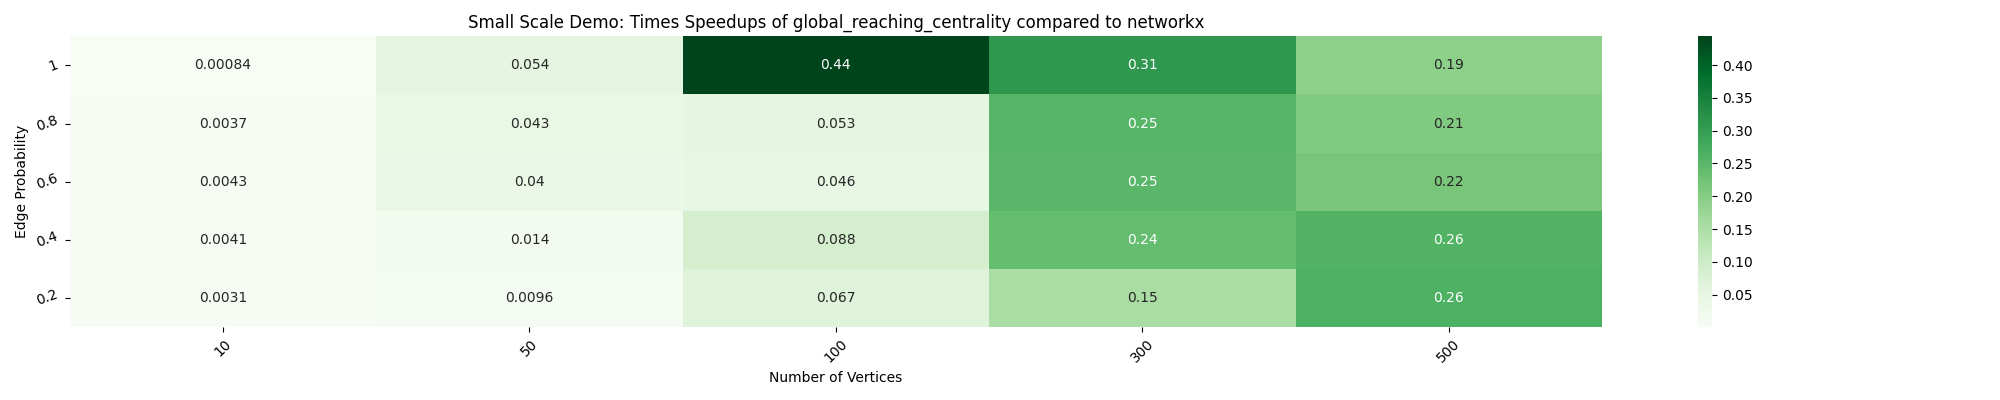
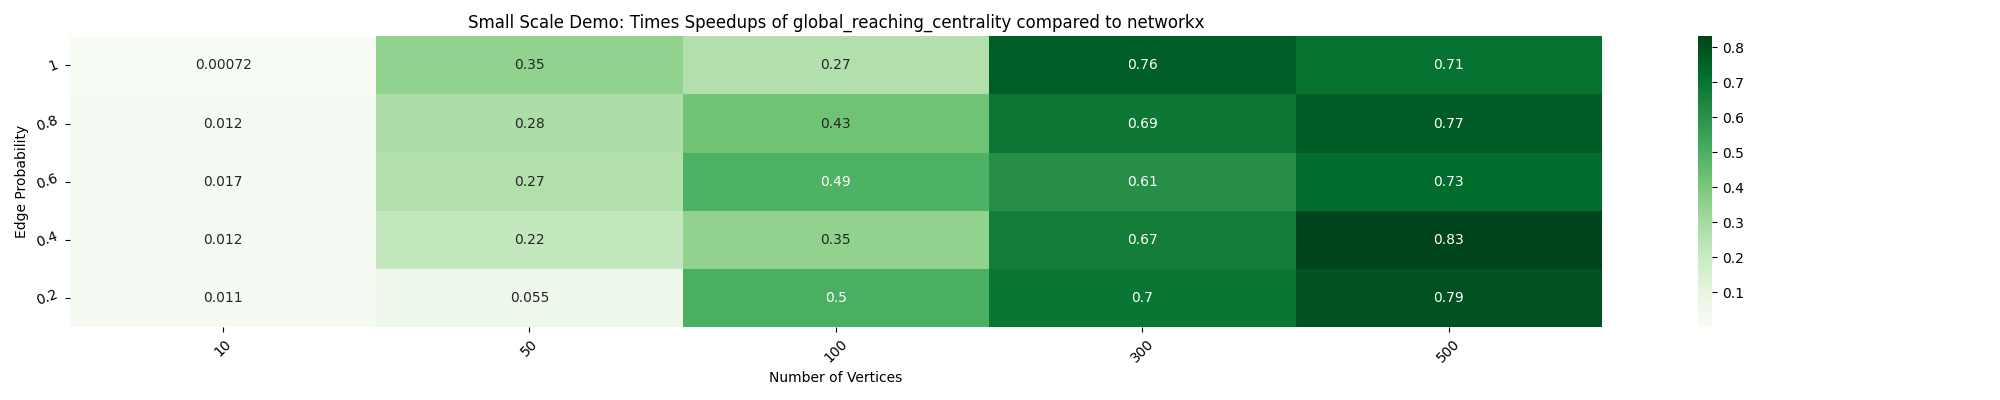
heatmaps, no speedups,used digraphs

diff --git a/timing/timing_individual_function.py b/timing/timing_individual_function.py
@@ -11,13 +11,13 @@ import nx_parallel
 
 # Code to create README heatmaps for individual function currFun
 heatmapDF = pd.DataFrame()
-number_of_nodes_list = [10, 50, 100, 300, 500]
+number_of_nodes_list = [125, 250, 500, 1000]
 pList = [1, 0.8, 0.6, 0.4, 0.2]
-currFun = nx.local_reaching_centrality
+currFun = nx.global_reaching_centrality
 for p in pList:
     for num in number_of_nodes_list:
         # create original and parallel graphs
-        G = nx.fast_gnp_random_graph(num, p, seed=42, directed=False)
+        G = nx.fast_gnp_random_graph(num, p, seed=42, directed=True)
 
         # for weighted graphs
         random.seed(42)
@@ -27,15 +27,15 @@ for p in pList:
         H = nx_parallel.ParallelGraph(G)
 
         # time both versions and update heatmapDF
-        v = random.choice(list(G.nodes()))
+        # v = random.choice(list(G.nodes()))
         t1 = time.time()
-        c = currFun(H, v)
+        c = currFun(H)
         if isinstance(c, types.GeneratorType):
             d = dict(c)
         t2 = time.time()
         parallelTime = t2 - t1
         t1 = time.time()
-        c = currFun(G, v)
+        c = currFun(G)
         if isinstance(c, types.GeneratorType):
             d = dict(c)
         t2 = time.time()
